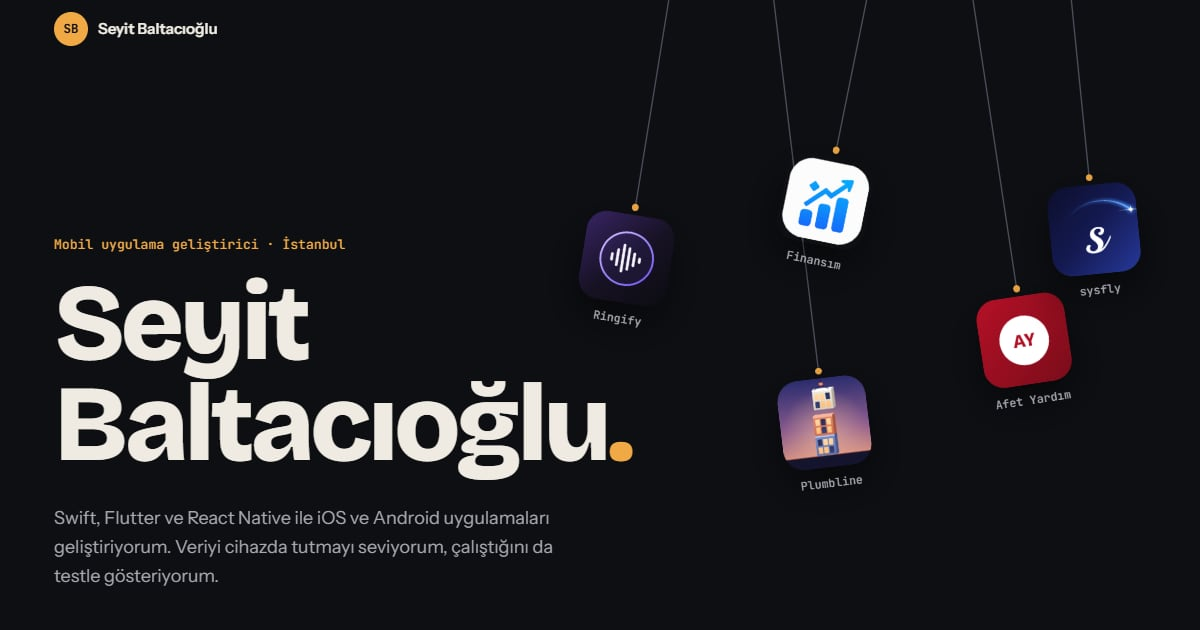
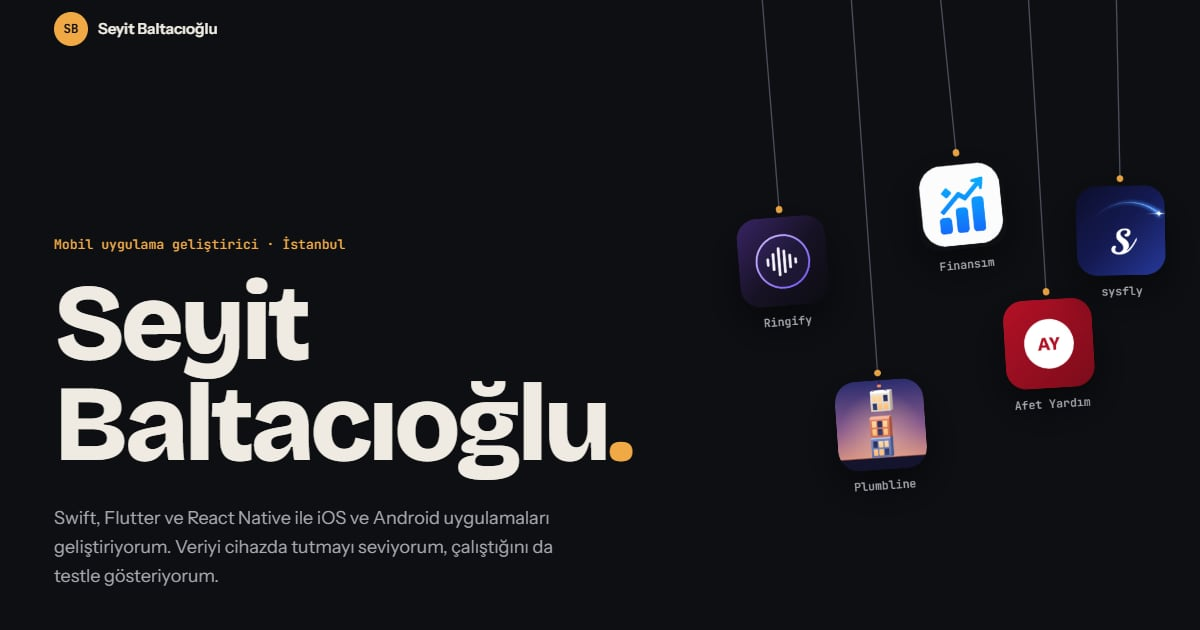
fix: asılı ikonlar başlığın üstüne binmeyecek şekilde sağa alındı
İkon alanı sağa kaydırıldı ve daraltıldı, Ringify artık her ekran genişliğinde başlıktan ayrı duruyor. Başlangıç eğimleri aynı yöne çevrildi, iplerin uzunluğu dikey tablette ekran genişliğiyle de sınırlandı. Paylaşım görseli yeni dizilişle güncellendi.

diff --git a/src/components/HangingMobile.jsx b/src/components/HangingMobile.jsx
@@ -3,11 +3,11 @@ import { useEffect, useRef } from 'react'
 const BASE = import.meta.env.BASE_URL
 
 const ITEMS = [
-  { id: 'ringify', label: 'Ringify', x: 14, len: 36, lenSm: 38, start: 0.16 },
-  { id: 'plumbline', label: 'Plumbline', x: 32, len: 62, lenSm: 72, start: -0.12 },
-  { id: 'finansim', label: 'Finansım', x: 50, len: 27, lenSm: 26, start: 0.2 },
-  { id: 'afet', label: 'Afet Yardım', x: 68, len: 49, lenSm: 56, start: -0.15 },
-  { id: 'sysfly', label: 'sysfly', x: 86, len: 31, lenSm: 30, start: -0.1 },
+  { id: 'ringify', label: 'Ringify', x: 14, len: 36, lenSm: 38, start: -0.08 },
+  { id: 'plumbline', label: 'Plumbline', x: 32.5, len: 62, lenSm: 72, start: -0.07 },
+  { id: 'finansim', label: 'Finansım', x: 51, len: 27, lenSm: 26, start: -0.1 },
+  { id: 'afet', label: 'Afet Yardım', x: 69.5, len: 49, lenSm: 56, start: -0.06 },
+  { id: 'sysfly', label: 'sysfly', x: 88, len: 31, lenSm: 30, start: -0.02 },
 ]
 
 const GRAVITY = 1500
@@ -94,7 +94,8 @@ export default function HangingMobile() {
           ref={(node) => { nodes.current[i] = node }}
           style={{
             left: `${item.x}%`,
-            '--len': `${item.len}svh`,
+            // dikey tablette ipler yaziya inmesin diye genislikle de sinirli
+            '--len': `min(${item.len}svh, ${item.len * 0.75}vw)`,
             '--len-sm': `${item.lenSm}%`,
             transform: `rotate(${item.start}rad)`,
           }}

diff --git a/src/styles.css b/src/styles.css
@@ -71,7 +71,7 @@ em { font-style: normal; color: var(--brass); }
   padding: 120px var(--gutter) 40px;
   display: flex; flex-direction: column; justify-content: flex-end; gap: 56px;
 }
-.mobile { position: absolute; top: 0; right: var(--gutter); width: 46%; height: 100%; pointer-events: none; }
+.mobile { position: absolute; top: 0; right: calc(var(--gutter) / 2); width: 40%; height: 100%; pointer-events: none; }
 .mobile__arm {
   position: absolute; top: -20px; width: 1px; height: var(--len);
   background: var(--line-strong); transform-origin: 50% 0; will-change: transform;
